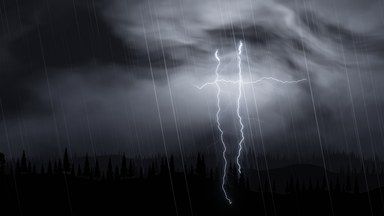
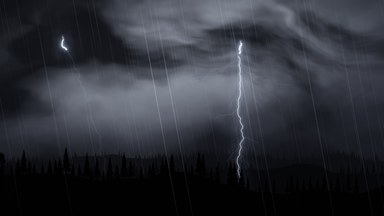
Lightning's strikes come down onto one of the land's layers and on behind the one in front of it (onto the near one, on below the bottom of the screen), so no bolt ends in the open. No more trees struck and glowing. Its picture again.

diff --git a/apps/desktop/renderer/app/viz/lightning.js b/apps/desktop/renderer/app/viz/lightning.js
@@ -6,10 +6,9 @@
 // flickers once or twice more as real lightning does; a weaker beat or a calm
 // part flashes inside the clouds instead, lighting them from within, and
 // snares and claps add small sparks between them. With nothing playing the
-// storm rumbles on far away now and then. A strike comes down on the ground
-// of one of the land's three layers, between it and the next, hidden by the
-// ones in front; now and then one hits a tree, with a bigger flash, and the
-// tree glows on for a few seconds, fading.
+// storm rumbles on far away now and then. A strike comes down onto one of
+// the land's three layers and on behind the one in front of it (or off the
+// bottom of the screen), hidden by the layers in front.
 //
 // Drawn with WebGL (viz/gl.js): the bolts as soft lines into a texture of
 // their own (the brightest wins where they cross, so joints and branches do
@@ -28,9 +27,6 @@
   const LEADER_S = 0.055;  // the leader's way down, before the stroke
   const STROKE_S = 0.085;  // the stroke's fall
   const LINGER_S = 0.3;    // the channel's afterglow
-  const TREE_CHANCE = 0.5;   // how many of the music's big peaks strike a tree
-  const TREE_GAP_S = 25;     // and at least this far apart
-  const GLOW_S = 3;          // how long a struck tree glows
   const PRESETS = ['#a9c4ff', '#ffffff', '#c77dff', '#ff5ec4', '#ffd166', '#6bff8f', '#ff4d4d'];
 
   const BOLT_VS = `
@@ -70,7 +66,7 @@
   ];
   const glsl = (v) => (Number.isInteger(v) ? v.toFixed(1) : String(v));
 
-  // The hills and the trees' shapes, for the land and for the struck tree.
+  // The hills and the trees' shapes.
   const TREES = `
     float hills(float x, float seed, float h, float rough) {
       return h + 0.2 * (fbm(vec2(x * 1.8 + seed, seed)) - 0.45) + rough * vnoise(vec2(x * 9.0, seed + 4.0));
@@ -167,14 +163,12 @@ ${LAYERS.map((l, i) => `      float l${i} = layer(p, ${glsl(l.xs)}, ${glsl(l.see
       o = vec4(l0, l1, l2, 1.0);
     }`;
 
-  const SKY_FS = VizGL.NOISE + TREES + `
+  const SKY_FS = VizGL.NOISE + `
     in vec2 uv;
     uniform sampler2D core;
     uniform sampler2D glowA;
     uniform sampler2D glowB;
     uniform sampler2D land;
-    uniform vec4 struck;
-    uniform vec4 struckBy;
     uniform vec2 res;
     uniform float time;
     uniform float flash;
@@ -255,20 +249,6 @@ ${LAYERS.map((l, i) => `      float l${i} = layer(p, ${glsl(l.xs)}, ${glsl(l.see
       col += rainMid;
       col = mix(col, vec3(0.01, 0.011, 0.017) + tint * (flash * 0.05 + lit * 0.025 + rim.g * shine * 0.11), cov.g * 0.96);
       col = mix(col, vec3(0.003, 0.003, 0.005) + tint * rim.b * shine * 0.12, cov.b);
-      // A tree the lightning struck, glowing: white hot at first, then
-      // embers, fading; hidden by the layers in front of it.
-      if (struck.w > 0.0) {
-        vec2 q = (p - struck.xy) / struck.z;
-        float pxu = 1.0 / (res.y * struck.z);
-        float tree = struckBy.y > 0.5 ? oak(q, struckBy.z, pxu) : pine(q, struckBy.z, pxu);
-        tree *= 1.0 - (struckBy.x < 0.5 ? max(cov.g, cov.b) : struckBy.x < 1.5 ? cov.b : 0.0);
-        float a = struck.w;
-        vec3 hot = mix(vec3(1.0, 0.42, 0.1), mix(color, vec3(1.0), 0.7) * 2.5, smoothstep(0.85, 1.0, a));
-        float flick = 0.7 + 0.3 * vnoise(q * 14.0 + vec2(0.0, -time * 5.0));
-        col += hot * tree * a * a * 1.3 * flick;
-        vec2 hq = (q - vec2(0.0, 0.45)) * vec2(1.5, 1.0);
-        col += hot * exp(-dot(hq, hq) * 2.5) * a * a * 0.22;
-      }
       col += bolt;
       col += rainBig;
 
@@ -278,12 +258,8 @@ ${LAYERS.map((l, i) => `      float l${i} = layer(p, ${glsl(l.xs)}, ${glsl(l.see
       o = vec4(col, 1.0);
     }`;
 
-  // The shaders' noise in JS, to know where their hills and trees are.
+  // The shaders' noise in JS, to know where their hills are.
   const fract = (v) => v - Math.floor(v);
-  const smooth = (e0, e1, v) => {
-    const k = Math.min(1, Math.max(0, (v - e0) / (e1 - e0)));
-    return k * k * (3 - 2 * k);
-  };
   function hash12(x, y) {
     let a = fract(x * 0.1031);
     let b = fract(y * 0.1031);
@@ -320,20 +296,6 @@ ${LAYERS.map((l, i) => `      float l${i} = layer(p, ${glsl(l.xs)}, ${glsl(l.see
   function hillAt(l, x) {
     return l.h + 0.2 * (fbm(x * l.xs * 1.8 + l.seed, l.seed) - 0.45) + l.rough * vnoise(x * l.xs * 9, l.seed + 4);
   }
-  /** The tree in a layer's cell, if one stands there: its foot, height, kind. */
-  function treeIn(l, id, px) {
-    const cell = l.treeH * 0.33;
-    const hh = hash12(id, l.seed);
-    const stand = smooth(0.25, 0.55, vnoise(id * cell * 2.2, l.seed * 3));
-    if (hh > 0.92 * stand) return null;
-    const tx = (id + 0.2 + 0.6 * hash12(id * 1.7, l.seed + 3.1)) * cell;
-    const big = hash12(id * 3.3, l.seed + 9.2);
-    const oak = hash12(id * 3.7, l.seed + 2) < l.oaks;
-    const th = l.treeH * (oak ? 1.05 + 0.2 * big : 0.7 + 0.5 * big + 0.4 * big ** 6);
-    const ty = hillAt(l, tx) - th * 0.35 * hash12(id * 5.1, l.seed + 1.7) - px * 2;
-    return { tx, ty, th, oak, seed: hh * 91.7 };
-  }
-
   /** A seeded random 0..1. */
   function random(seed) {
     let s = seed >>> 0 || 1;
@@ -449,89 +411,45 @@ ${LAYERS.map((l, i) => `      float l${i} = layer(p, ${glsl(l.xs)}, ${glsl(l.see
     }
 
     /**
-     * Where a bolt to the ground comes down: on the ground of one of the
-     * layers, between it and the one in front (or on the near one), or now
-     * and then on a tree. { x, y } in pixels, the layer, and the tree if one.
+     * Where a bolt to the ground comes down: onto the ground of one of the
+     * layers, seen above the next one in front, and on down behind that one
+     * (or, onto the near one, on below the bottom of the screen), so its end
+     * is never seen. { x, y } in pixels, and the layer.
      */
-    _target(tree) {
+    _target() {
       const r = this.rand;
       const { w, h } = this;
       const aspect = w / h;
-      if (tree) {
-        const hit = this._tree();
-        if (hit) return hit;
-      }
       for (let tries = 0; tries < 8; tries += 1) {
         const roll = r();
         const layer = roll < 0.4 ? 0 : roll < 0.75 ? 1 : 2;
         const ux = 0.08 + r() * 0.84;
+        if (layer === 2) return { x: ux * w, y: h * 1.04, layer };
         const top = hillAt(LAYERS[layer], ux * aspect);
         // Its ground is seen down to where the next layer's hills rise.
-        let below = 0;
-        for (let i = layer + 1; i < LAYERS.length; i += 1) below = Math.max(below, hillAt(LAYERS[i], ux * aspect));
-        const gap = top - below;
-        if (layer < 2 && gap < 0.012) continue;
-        const y = top - (layer < 2 ? gap * (0.1 + 0.6 * r()) : top * (0.05 + 0.5 * r()));
-        return { x: ux * w, y: h * (1 - y), layer, tree: null };
+        let front = 0;
+        for (let i = layer + 1; i < LAYERS.length; i += 1) front = Math.max(front, hillAt(LAYERS[i], ux * aspect));
+        if (top - front < 0.012) continue;
+        return { x: ux * w, y: h * (1 - front + 0.03 + 0.03 * r()), layer };
       }
-      return { x: w * (0.1 + r() * 0.8), y: h * (1 - LAYERS[2].h * 0.6), layer: 2, tree: null };
+      return { x: w * (0.1 + r() * 0.8), y: h * 1.04, layer: 2 };
     }
 
-    /** A tree to strike, one standing in sight, or null. */
-    _tree() {
-      const r = this.rand;
-      const { w, h } = this;
-      const aspect = w / h;
-      const gl = this.gl;
-      const px = new Uint8Array(4);
-      for (let tries = 0; tries < 12; tries += 1) {
-        const layer = r() < 0.55 ? 2 : r() < 0.7 ? 1 : 0;
-        const l = LAYERS[layer];
-        const cell = l.treeH * 0.33;
-        const t = treeIn(l, Math.floor(((0.1 + r() * 0.8) * aspect) / cell), 1 / h);
-        if (!t) continue;
-        // Its crown must be there (the land as drawn says so) and its top
-        // not behind a nearer layer.
-        const at = (ux, uy) => {
-          gl.bindFramebuffer(gl.FRAMEBUFFER, this.landT.fb);
-          gl.readPixels(Math.round(ux * h), Math.round(uy * h), 1, 1, gl.RGBA, gl.UNSIGNED_BYTE, px);
-          return [px[0], px[1], px[2]];
-        };
-        const crown = at(t.tx, t.ty + t.th * 0.6);
-        const tip = at(t.tx, t.ty + t.th * 0.9);
-        let hidden = 0;
-        for (let i = layer + 1; i < 3; i += 1) hidden = Math.max(hidden, tip[i]);
-        gl.bindFramebuffer(gl.FRAMEBUFFER, null);
-        if (crown[layer] < 160 || hidden > 60) continue;
-        return { x: t.tx * h, y: h * (1 - (t.ty + t.th * 0.97)), layer, tree: { ...t, layer } };
-      }
-      return null;
-    }
-
-    /** A bolt to the ground, as strong as power 0..1; at a tree if `tree` (and one is in sight). */
-    _strike(power, tree = false) {
+    /** A bolt to the ground, as strong as power 0..1. */
+    _strike(power) {
       const r = this.rand;
       const w = this.w;
       const h = this.h;
-      const aim = this._target(tree);
-      const struck = aim.tree;
-      // A tree struck: the strongest strike there is.
-      if (struck) {
-        power = 1;
-        this.lastTree = this.age;
-      }
+      const aim = this._target();
       const x = Math.max(w * 0.05, Math.min(w * 0.95, aim.x + (r() - 0.5) * w * 0.35));
       const y = h * (0.08 + r() * 0.14);
       const main = this._walk(x, y, { tx: aim.x, ty: aim.y, len: h * 2, step: h / 55, jag: 0.62 });
-      // Right onto the mark at the end.
-      main.push(aim.x, aim.y);
       const span = length(main);
-      const width = (h / 1080) * (1.6 + 1.6 * power) * (struck ? 1.25 : 1);
+      const width = (h / 1080) * (1.6 + 1.6 * power);
       const paths = [{ pts: main, from: 0, span, width, bright: 1, main: true }];
       this._branches(paths, main, 0, span, width, 0.85, 2, 0.16 + 0.12 * power, true);
       this._add({
-        paths, span, power: struck ? 1.6 : power, ground: true, depth: aim.layer + 1, lx: x / w, ly: 1 - y / h, radius: 0.32 + 0.12 * power + (struck ? 0.15 : 0),
-        gx: aim.x / w, gy: 1 - aim.y / h, tree: struck,
+        paths, span, power, ground: true, depth: aim.layer + 1, lx: x / w, ly: 1 - y / h, radius: 0.32 + 0.12 * power,
       });
       this.lastStrike = this.age;
     }
@@ -612,14 +530,6 @@ ${LAYERS.map((l, i) => `      float l${i} = layer(p, ${glsl(l.xs)}, ${glsl(l.see
         if (t >= 0) {
           flash += glow * b.power * (b.ground ? 1 : 0.55);
           lit.push([b.lx, b.ly, b.radius, glow * (0.4 + 0.6 * b.power)]);
-          // A tree struck: lit where it was hit, and set glowing.
-          if (b.tree) {
-            lit.push([b.gx, b.gy, 0.18, glow * 1.2]);
-            if (!b.lit) {
-              b.lit = true;
-              this.glowing = { ...b.tree, age: 0 };
-            }
-          }
         }
         for (const p of b.paths) {
           // Branches fade faster than the channel they hang from.
@@ -671,15 +581,6 @@ ${LAYERS.map((l, i) => `      float l${i} = layer(p, ${glsl(l.xs)}, ${glsl(l.see
       // Without Screen flash the clouds still glow around the bolts, less.
       for (let i = 0; i < MAX_LIGHTS; i += 1) lights[i * 4 + 3] *= 0.25 + 0.75 * Math.min(1, amount);
       gl.uniform4fv(u.lights, lights);
-      // The struck tree, glowing for GLOW_S, fading.
-      const g = this.glowing;
-      if (g) {
-        g.age += dt;
-        if (g.age > GLOW_S) this.glowing = null;
-      }
-      const left = this.glowing ? 1 - g.age / GLOW_S : 0;
-      gl.uniform4f(u.struck, g ? g.tx : 0, g ? g.ty : 0, g ? g.th : 1, left);
-      gl.uniform4f(u.struckBy, g ? g.layer : 0, g && g.oak ? 1 : 0, g ? g.seed : 0, 0);
       VizGL.screen(gl);
     }
 
@@ -733,13 +634,7 @@ ${LAYERS.map((l, i) => `      float l${i} = layer(p, ${glsl(l.xs)}, ${glsl(l.see
         return;
       }
       const calm = 1 - a.intensity;
-      // Only the music's big peaks (a full bass hit at the top of the kicks
-      // lately, or a full hat or snare) strike a tree, now and then.
-      const peak = (a.onset && a.onsetPower >= 0.95 && a.beat >= 0.97) || (a.hit && a.hitPower >= 1);
-      if (peak) this.peaks = (this.peaks || 0) + 1;
-      if (peak && !this.glowing && this.age - (this.lastTree ?? -TREE_GAP_S) >= TREE_GAP_S && r() < TREE_CHANCE) {
-        this._strike(1, true);
-      } else if (a.onset) {
+      if (a.onset) {
         const strength = Math.min(1, 0.4 * a.onsetPower + 0.6 * a.beat);
         // Ground strikes take an intense part and a real beat, and a moment
         // between them, shorter the more readily it strikes.
